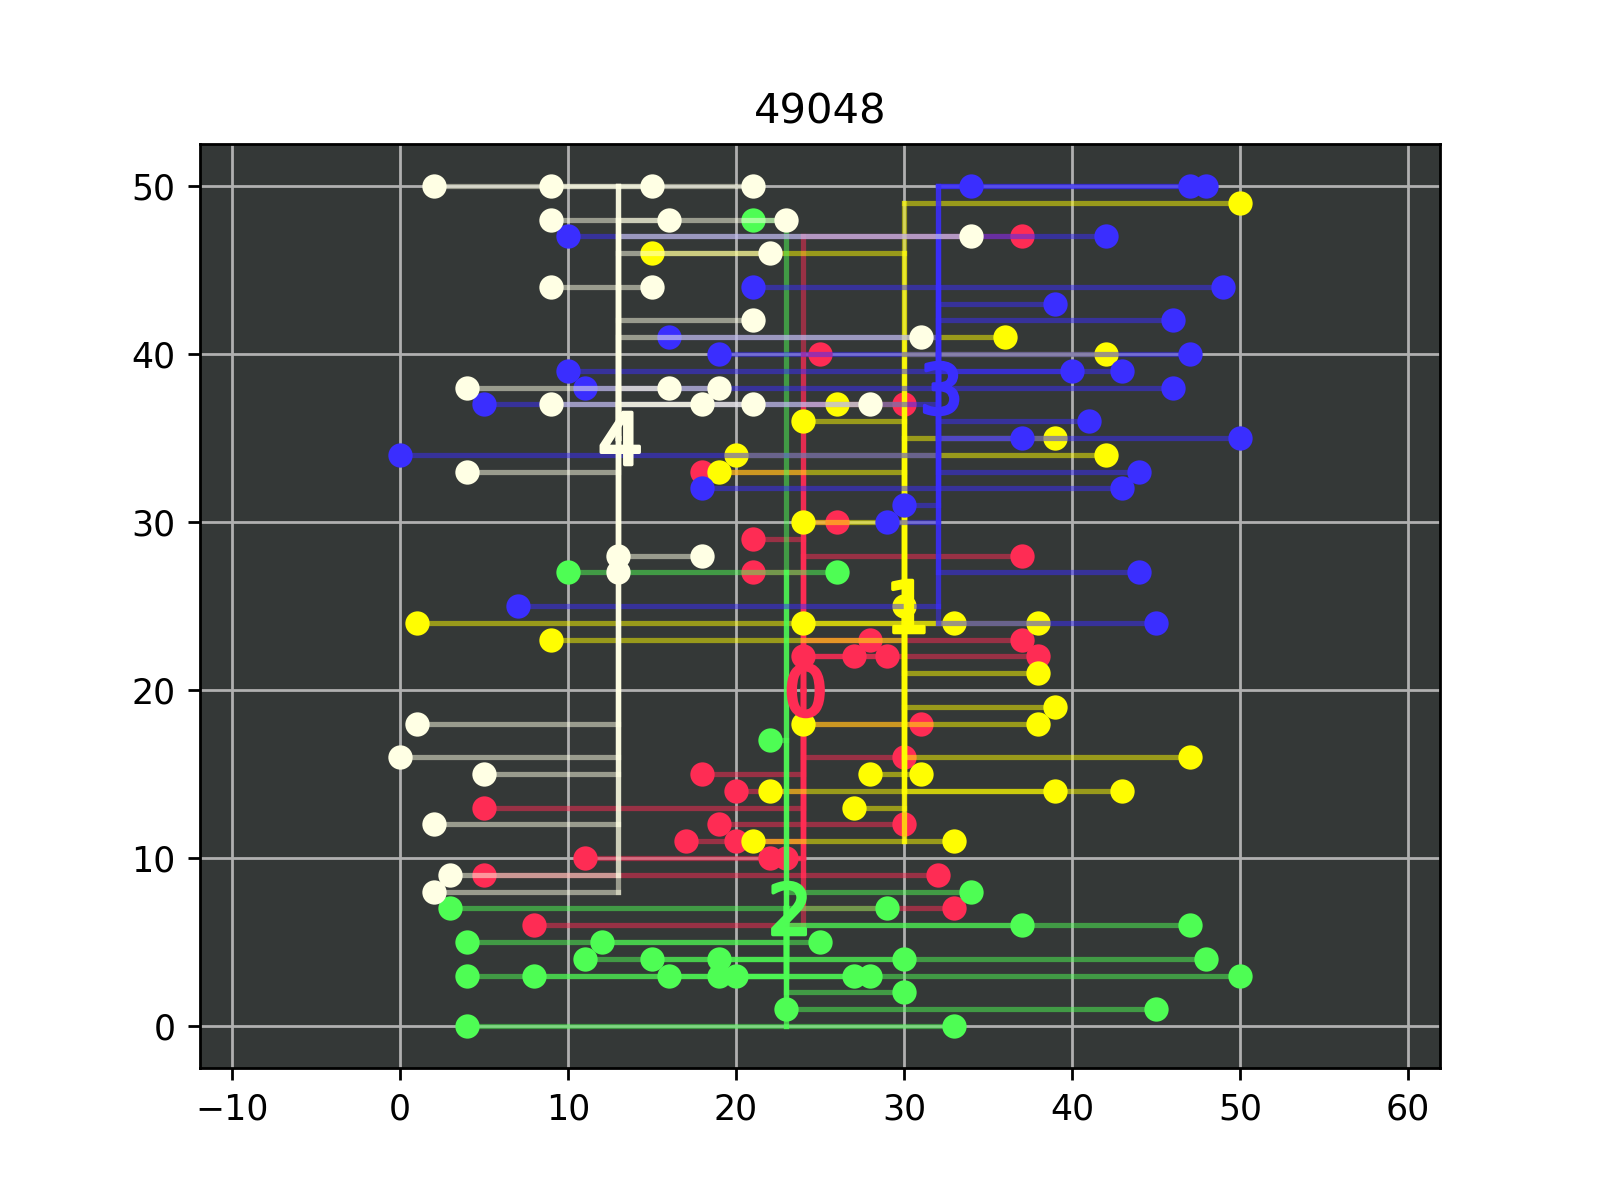
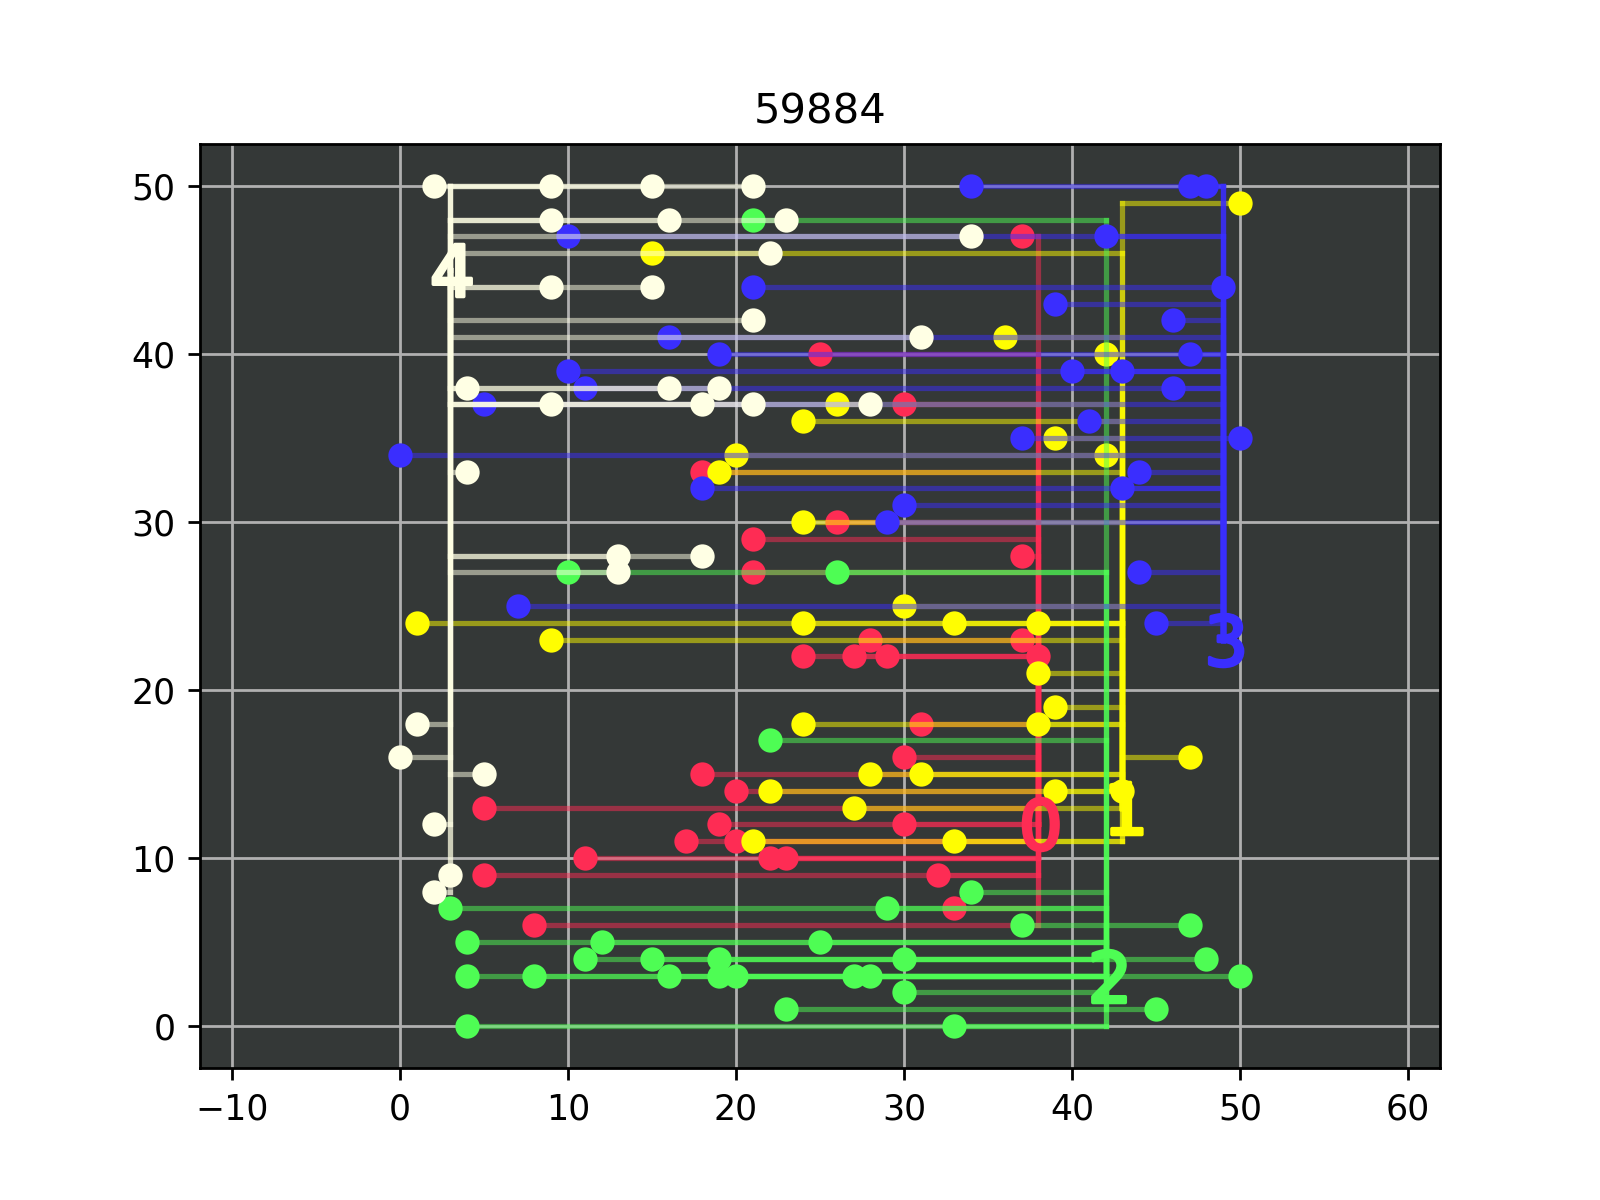
ultimate upgrade fix

diff --git a/algorithms/hillclimber.py b/algorithms/hillclimber.py
@@ -3,13 +3,16 @@ from helpers.switch import switch
 from helpers.simultaneousSwitch import simultaneousSwitch
 from helpers.compare import compare
 from helpers.acceptanceProbability import acceptanceprobability
+
+
 def hillclimbSwitcher(house, district, justUnconnected = False, sa = True, triedhouses = []):
     temperature = 250
     coolingRate = 0.95
     currentCosts = district.calculateCosts()
 
     if justUnconnected == True:
-        singleConnectUnconnected(house, district)
+        if house in district.disconnectedHouses:
+            singleConnectUnconnected(house, district)
         return
 
     else:
@@ -72,28 +75,32 @@ def singleSwitch(house, district, i, triedhouses, currentCosts, sa, temperature,
 
 def singleConnectUnconnected(house, district):
     district.batteries.sort(key=lambda x: x.capacity, reverse=True)
+
     for battery in district.batteries:
-        capacity_d = house.output - battery.capacity
         # Find a house which is already connected
         for connectedHouse in battery.connectedHouses:
+            oldConnection = connectedHouse.connection
             # then check if the house's output combined with its battery's leftover capacity could facilitate the other
-            if (connectedHouse.output + connectedHouse.connection.capacity) <= capacity_d:
-
+            if (connectedHouse.output + connectedHouse.connection.capacity) > house.output:
                 for b in connectedHouse.possible_connections:
-                    # # print(b)
-                    if b[0].capacity >= connectedHouse.output and b != "NOT CONNECTED!":
-                        # # print(house.connection)
-                        switch(house, b[0])
+                    #print("connect?",b[0].id, b[0].capacity, "connected house cap", connectedHouse.output)
+                    if b[0].capacity >= connectedHouse.output:
+                        switch(connectedHouse, b[0])
+                        switch(house, oldConnection)
 
                         if house.connection.capacity < 0:
                             house.distance = 0
                             house.connection.capacity += house.output
                             house.connection.connectedHouses.remove(house)
                             house.connection = "NOT CONNECTED!"
+
+                            switch(connectedHouse, oldConnection)
                             break
 
                         district.disconnectedHouses.remove(house)
+                        print("switch! to prev location of: ", connectedHouse.id,"to", oldConnection.id)
                         return
+    #print("no possible switches found for house: ", house.id)
 
 #---------------------------------------------------------------------------------------------------------------
 

diff --git a/algorithms/ultimate.py b/algorithms/ultimate.py
@@ -48,6 +48,7 @@ def ultimate(district):
     while count < numIt:#costDifference > 0:
         oldCosts = copy(district.calculateCosts())
         while costDKmeans > 0:
+            oldCosts = copy(district.calculateCosts())
             print(" while it")
             district = kmeans(district, numIt = 3)
            #visualize(district, True, district.mode + str(x))
@@ -66,36 +67,40 @@ def batteryUpgrade(district, capacities, batCosts, oldCosts, costDifference):
     bats = district.batteries
     bats.sort(key=lambda x: x.capacity)
     district.disconnect()
+    upgradeBattery = None
 
     for b in bats:
         if b.capacity != capacities[len(capacities) - 1]:
-            index = capacities.index(b.capacity)
+            print(" pre upgrade", b.id, b.capacity)
+            index = capacities.index(b.capacity) + 1
+            print("capacity index value", capacities[index])
             b.capacity = capacities[index]
             b.costs = batCosts[index]
             b.maxCapacity = capacities[index]
+            upgradeBattery = b
             break
+    print(" post upgrade", upgradeBattery.id, upgradeBattery.capacity)
     district.connectGreedy()
-
-    toBeRemoved = bats[len(bats)-1]
-    print(toBeRemoved.id)
+    district.setClosestBattery()
+    toBeRemoved = upgradeBattery.closestBattery
+    print("remove id",toBeRemoved.id)
     district.batteries.remove(bats[len(bats)-1])
-    for b in bats:
-        print(b.id, b.location)
+
     print("len ultimate",len(district.batteries))
 
     for i in range(len(district.batteries)):
         district.batteries[i].id = i
-    visualize(district)
 
     district.connectGreedy()
 
     for uc in district.disconnectedHouses:
         hillclimbSwitcher(uc, district, True)
-    print("new number of batteries: ", len(district.batteries))
 
-
+    #visualize(district)
     if len(district.disconnectedHouses) != 0:
+        print("removal failed")
         district.batteries.append(toBeRemoved)
+    print("new number of batteries: ", len(district.batteries))
 
     district = kmeans(district)
     visualize(district)

diff --git a/algorithms/kmeans.py b/algorithms/kmeans.py
@@ -71,6 +71,11 @@ def checkConnections(district, count, contestants):
         # If the reconnection results in disconnected houses new tries are
         # made until all houses are connected
         while (district.allConnected == False):
+            if len(district.disconnectedHouses) > 10:
+                print("geen hoop")
+                district = contestants[0]
+                break
+            print("number unconnected: ", len(district.disconnectedHouses))
             for house in district.disconnectedHouses:
                 hillclimbSwitcher(house, district, True)
                 if len(district.disconnectedHouses) == 0:

diff --git a/main.py b/main.py
@@ -47,7 +47,7 @@ def main():
     district.mode = "hillclimber-"
     district.hillClimber(False)
     district.mode = ""
-    #ultimate(district)
+    ultimate(district)
     district = deepcopy(district.compare)
 
     # Calculate costs for this configuration
